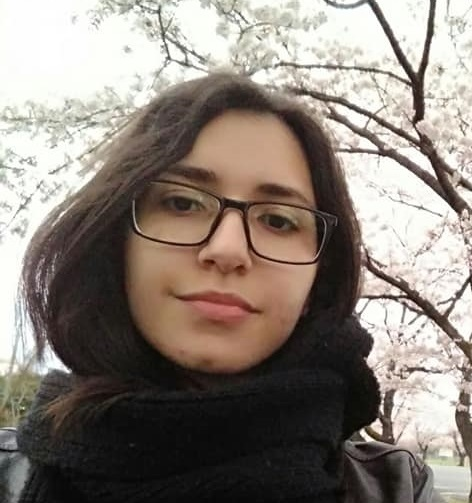
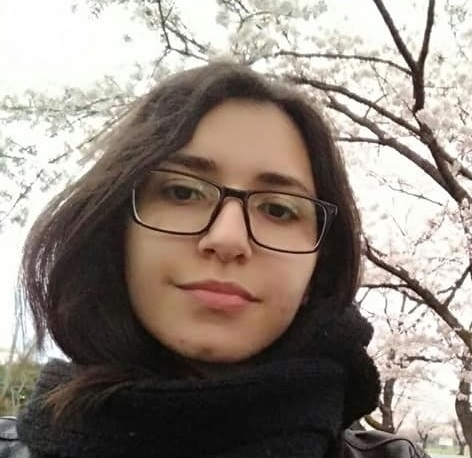
texto e imagens corrigidas

diff --git a/sobrenós.html b/sobrenós.html
@@ -23,8 +23,7 @@
         À partir desse problema surge a nossa plataforma, uma <em>ponte</em> entre alunos em busca de ajuda com materiais para os seus estudos, e pessoas solidárias dispostas a ajudar nossos estudantes </p>
         <br>
         <h3> Conheça a Equipe:</h3>
-        <p>A squad48 é uma equipe formada por seis integrantes e surgiu durante o programa de formação promovido pela empresa da área de tecnologia FCâmara, a qual
-            foi fundada em 2008 e hoje é líder no desenvolvimento de soluções digitais.
+        <p>A squad48 é uma equipe formada por seis integrantes e surgiu durante o programa de formação promovido pela empresa da área de tecnologia FCâmara, fundada em 2008 e hoje é líder no desenvolvimento de soluções digitais.
         </p>
         <div class="row">
             <div class="cards m-1 col-md-3 col-sm-6 col-xs-10 flex-container spacearound" id="bianca"> 
